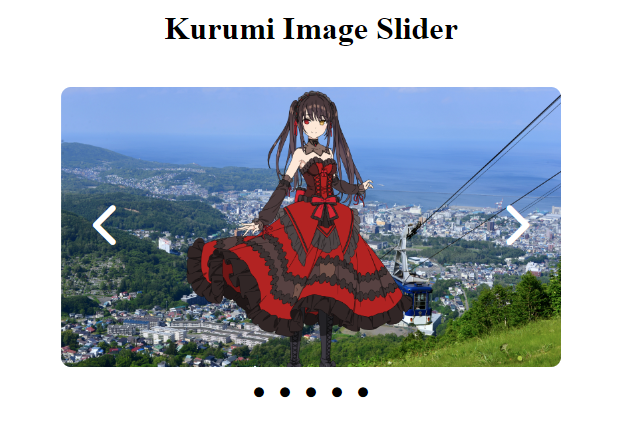
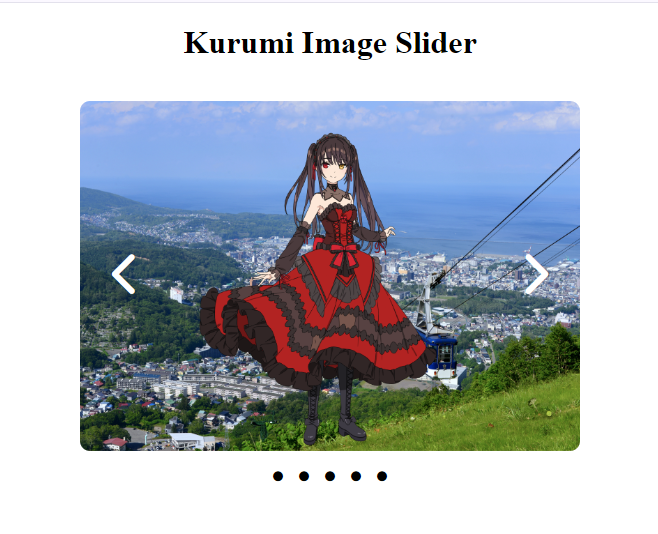
Update README and document code

Changed region(s): [[0.0908, 0.1814, 0.9076, 0.9372], [0.242, 0.0302, 0.7261, 0.1209]]

diff --git a/src/ImageSlider.jsx b/src/ImageSlider.jsx
@@ -1,19 +1,21 @@
 import PropTypes from 'prop-types'
 import { useState, useRef, useEffect, useCallback } from 'react';
 
+// Prop type validation
 ImageSlider.propTypes = {
     slides: PropTypes.object,
     parentWidth: PropTypes.number,
 }
 
 function ImageSlider({ slides, parentWidth }) {
+    // Timer Ref for the timeout
     const timerRef = useRef(null);
     const [currentIndex, setCurrentIndex] = useState(0);
 
     const sliderStyles = {
         height: "100%",
         position: "relative",
-    }
+    };
 
     const slideStyles = {
         width: "100%",
@@ -23,7 +25,7 @@ function ImageSlider({ slides, parentWidth }) {
         backgroundSize: "cover",
         backgroundImage: `url(${slides[currentIndex].url})`,
         marginBottom: "20px",
-    }
+    };
 
     const leftArrowStyles = {
         position: "absolute",
@@ -34,7 +36,7 @@ function ImageSlider({ slides, parentWidth }) {
         color: "#fff",
         zIndex: 1,
         cursor: "pointer",
-    }
+    };
 
     const rightArrowStyles = {
         position: "absolute",
@@ -45,42 +47,45 @@ function ImageSlider({ slides, parentWidth }) {
         color: "#fff",
         zIndex: 1,
         cursor: "pointer",
-    }
+    };
 
     const dotsContainerStyles = {
         display: "flex",
         justifyContent: "center",
         gap: "10px",
         marginTop: "20px",
-    }
+    };
 
     const dotStyles = {
         margin: "0px 3px",
         cursor: "pointer",
         fontSize: "10px",
-    }
+    };
 
     const slidesContainerStyles = {
         display: "flex",
         height: "100%",
         transition: "transform ease-out 0.3s",
-    }
+    };
 
     const slidesContainerOverflowStyles = {
         overflow: "hidden",
         height: "100%",
-    }
+    };
 
+    // Return to the previous image
     const goToPrev = () => {
         const newIndex = currentIndex === 0 ? slides.length - 1 : currentIndex - 1;
         setCurrentIndex(newIndex);
     }
 
+    // Move to the next image (callback due to being a dependency for useEffect)
     const goToNext = useCallback(() => {
         const newIndex = currentIndex === slides.length - 1 ? 0 : currentIndex + 1;
         setCurrentIndex(newIndex);
     }, [currentIndex, slides]);
 
+    // Go to a specific slide from clicking dot
     const goToSlide = (index) => {
         setCurrentIndex(index);
     }
@@ -89,7 +94,7 @@ function ImageSlider({ slides, parentWidth }) {
         ...slideStyles,
         backgroundImage: `url(${slides[slideIndex].url})`,
         width: `${parentWidth}px`,
-    })
+    });
 
     const getSlidesContainerStylesWithWidth = () => ({
         ...slidesContainerStyles,
@@ -97,13 +102,14 @@ function ImageSlider({ slides, parentWidth }) {
         transform: `translateX(${-(currentIndex * parentWidth)}px)`
     })
 
+    // To make the slides switch on their own after 3 seconds
     useEffect(() => {
         if (timerRef.current) {
             clearTimeout(timerRef.current);
         }
         timerRef.current = setTimeout(() => {
             goToNext();
-        }, 2000);
+        }, 3000);
 
         return () => clearTimeout(timerRef.current);
     }, [goToNext]);

diff --git a/src/App.jsx b/src/App.jsx
@@ -21,7 +21,7 @@ function App() {
 
   const containerStyles = {
     width: "500px",
-    height: "280px",
+    height: "350px",
     margin: "0 auto",
     display: "flex",
     flexDirection: "column",

diff --git a/README.md b/README.md
@@ -1,10 +1,11 @@
 # React Image Slider
 
-Image slider made with React
+This is an image slider made with React.  
+It utilizes various React hooks such as `useState`, `useEffect`, `useRef`, and `useCallback` to create an interactive image slider that switches slides on its own after a certain interval.
 
 <div align="center">
     <strong>
-        <h3>Preview: </h3>
+        <h2>Preview: </h2>
     </strong>
 </div>
 
